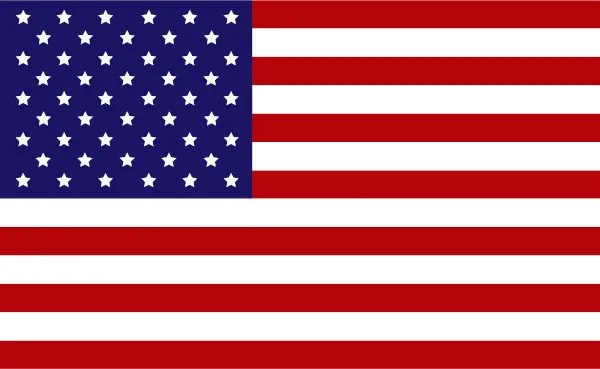
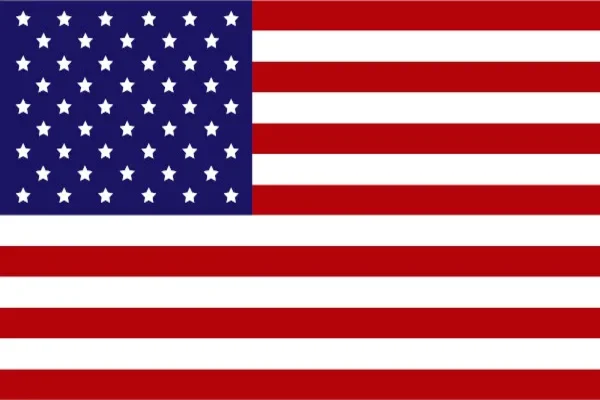
fix: tamanho da bandeira + adição delas na subpag

diff --git a/index.html b/index.html
@@ -61,11 +61,12 @@
                     <img src="imagens/icones/photo.svg" width="12" height="12" alt="ícone da galeria" style="border-radius: 2px;">
                 </div>
             </a>
+
             <a href="#" class="top-navigation__link">
                 <img id="img_bandeiraestados" src="imagens/bandeiras/bandeira-estados-unidos.webp" alt="bandeira dos Estados Unidos">
             </a>
-            <a class="top-navigation__link" href="#">
-                <img id="img_bandeiraespanha" src="imagens/bandeiras/bandeira-da-espanha.webp" alt="bandeira da Espanha">   
+            <a  href="#" class="top-navigation__link">
+                <img id="img_bandeiraespanha" src="imagens/bandeiras/bandeira-da-espanha.webp" alt="bandeira da Espanha">
             </a>
             
         </div>

diff --git a/paginas/pro.html b/paginas/pro.html
@@ -43,6 +43,13 @@
                     <img src="../imagens/icones/photo.svg" width="12" height="12" alt="#" style="border-radius: 2px;">
                 </div>
             </a>
+
+            <a href="#" class="top-navigation__link">
+                <img id="img_bandeiraestados" src="../imagens/bandeiras/bandeira-estados-unidos.webp" alt="bandeira dos Estados Unidos">
+            </a>
+            <a  href="#" class="top-navigation__link">
+                <img id="img_bandeiraespanha" src="../imagens/bandeiras/bandeira-da-espanha.webp" alt="bandeira da Espanha">
+            </a>
     
         </div>
     </nav>

diff --git a/header/style.css b/header/style.css
@@ -115,16 +115,27 @@
 }
 
 #img_bandeiraestados
-{ display: flex;
+{
+  display: flex;
   bottom: 0;
- margin-top: 18px;
-  height: 23.5px;
-  width: 37.5px;
+  margin-top: 18px;
+  height: 50%;
+  width: auto;
+  border-radius: 5px;
+  transition: 0.5s;
 }
+
 #img_bandeiraespanha
-{ display: flex;
+{ 
+  display: flex;
   bottom: 0;
- margin-top: 18px;
-  height: 25px;
-  width: 40px;
+  margin-top: 18px;
+  height: 50%;
+  width: auto;
+  border-radius: 5px;
+  transition: 0.5s;
+}
+
+#img_bandeiraestados:hover, #img_bandeiraespanha:hover {
+  border: 2px solid var(--primary);
 }
